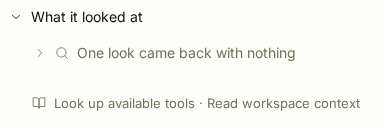
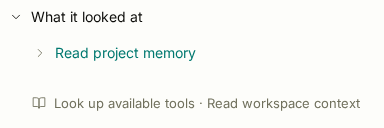
fix(chat): title a fruitless look by what it did, not by how many there were
The row behind the read door said "3 looks came back with nothing". It named a
quantity, and every row beside it names a thing — so the one entry a reader
could not identify was the one they would open to find out what the agent had
tried.

A look that found nothing has no subject to be titled by, so its row is titled
by its request: "Read project memory", the same words the pass already carried.
One row per look, each with its own chevron.

The emptiness moves behind that chevron onto the `bg-brand/10` wash every other
piece of evidence sits on. An empty result is still a result — it is what the
block would have shown had there been anything — so it belongs where a result
goes rather than in a sentence hanging under the list. A tool that said why it
came back empty prints that under it.

No `· nothing` suffix on the statement line: membership of this group is the
fact, and the door already says the reader is looking at what the turn only
looked at. `barrenLabel` goes with the count it existed to phrase.

Changed region(s): [[0.125, 0.375, 0.7812, 0.5]]

diff --git a/src/lib/components/chat/actions/barren-row.svelte b/src/lib/components/chat/actions/barren-row.svelte
@@ -1,0 +1,74 @@
+<script lang="ts">
+	import type { SubjectPass } from '$lib/components/agent';
+	import { Button } from '$lib/components/ui/button';
+	import * as Collapsible from '$lib/components/ui/collapsible';
+	import { FtChevronRight } from '$lib/components/icons';
+	import {
+		CHAT_ROW_DETAIL,
+		CHAT_ROW_ICON,
+		CHAT_ROW_INDENT,
+		CHAT_ROW_STATEMENT,
+		CHAT_TEXT_EVIDENCE,
+		chatActionEmphasis
+	} from './chat-row';
+
+	let { pass }: { pass: SubjectPass } = $props();
+</script>
+
+<!--
+	One look that came back with nothing.
+
+	Named by what it did — "Read project memory" — because that is the only identity it has.
+	Every other row behind the door is titled by its subject, and a look that found nothing has
+	no subject to be titled by; the request is what the reader recognises, and counting the looks
+	instead ("3 looks came back with nothing") named a quantity where every neighbouring row
+	names a thing.
+
+	The absence goes behind the chevron, on the same `bg-brand/10` wash every other piece of
+	evidence sits on. An empty result is still a result: it is what the block would show if there
+	had been anything, so it belongs where that would have been rather than in a sentence hanging
+	under the list.
+
+	No `· nothing` suffix on the statement. Membership of this group is the fact — everything
+	rendered here came back empty — and the door's own label already says the reader is looking
+	at what the turn only looked at.
+
+	Geometry is `subject-row.svelte`'s, including `min-w-0 flex-1 shrink` on the Button rather
+	than on the Trigger: a Trigger hands its class to the snippet through `props` and the
+	Button's own `class=` replaces it, and `buttonVariants` base contributes a `shrink-0` that
+	`CHAT_ROW_STATEMENT` has nothing to cancel.
+-->
+<Collapsible.Root>
+	<Collapsible.Trigger>
+		{#snippet child({ props })}
+			<Button
+				{...props}
+				variant="ghost"
+				size="sm"
+				class="{CHAT_ROW_STATEMENT} min-w-0 flex-1 shrink [&[data-state=open]>svg:first-child]:rotate-90"
+			>
+				<FtChevronRight
+					class="{CHAT_ROW_ICON} shrink-0 text-muted-foreground transition-transform duration-(--duration-micro)"
+				/>
+				<!-- The label is what the agent did, so it takes the teal; the query beside it is
+				     the reader's own words, so it does not. -->
+				<span class="min-w-0 truncate {chatActionEmphasis(pass.mutating)}">
+					{pass.label}{#if pass.query}&nbsp;<span class="italic text-foreground">{pass.query}</span
+						>{/if}
+				</span>
+			</Button>
+		{/snippet}
+	</Collapsible.Trigger>
+	<Collapsible.Content class={CHAT_ROW_DETAIL}>
+		<!-- pt-1 is the bond step: this detail belongs to the row directly above it. -->
+		<div class="{CHAT_ROW_INDENT} pt-1">
+			<div class="rounded-md bg-brand/10 px-2 py-1.5 dark:bg-brand/15">
+				<p class="{CHAT_TEXT_EVIDENCE} text-brand-muted-foreground">Nothing came back.</p>
+				{#if pass.evidence.kind === 'prose'}
+					<!-- Why it came back empty, when the tool troubled to say. -->
+					<p class="{CHAT_TEXT_EVIDENCE} pt-1 text-foreground">{pass.evidence.text}</p>
+				{/if}
+			</div>
+		</div>
+	</Collapsible.Content>
+</Collapsible.Root>

diff --git a/src/lib/components/chat/actions/turn-activity.svelte.spec.ts b/src/lib/components/chat/actions/turn-activity.svelte.spec.ts
@@ -265,24 +265,30 @@ describe('Looks that found nothing are a row like everything else behind the doo
 		return screen;
 	};
 
-	it('counts them on the statement line, which the flat sentence could not do', async () => {
-		const screen = await openDoor([fruitless(), fruitless()]);
-		await expect.element(screen.getByText('2 looks came back with nothing')).toBeVisible();
-	});
-
-	// The pass labels used to sit at the top of the door's column with no statement above them,
-	// so a request rung stood where a subject's name belongs. `toBeVisible` rather than a count
-	// of matches, for the reason this file already records above: the collapsible keeps its
-	// content mounted, so presence in the document says nothing about what is on screen.
-	it('keeps the looks themselves behind their own chevron', async () => {
+	// Named by what it did, because that is the only identity it has. A count named a quantity
+	// where every neighbouring row names a thing.
+	it('titles the row with the request, not with how many looks there were', async () => {
 		const screen = await openDoor([fruitless()]);
-		await expect.element(screen.getByText(/Searched for/)).not.toBeVisible();
-	});
-
-	it('shows them once that chevron is opened', async () => {
-		const screen = await openDoor([fruitless()]);
-		await screen.getByText('One look came back with nothing').click();
 		await expect.element(screen.getByText(/Searched for/)).toBeVisible();
+	});
+
+	it('gives each look its own row', async () => {
+		const screen = await openDoor([fruitless(), fruitless()]);
+		expect(await screen.getByText(/Searched for/).all()).toHaveLength(2);
+	});
+
+	// `toBeVisible` rather than a count of matches, for the reason this file already records
+	// above: the collapsible keeps its content mounted, so presence in the document says nothing
+	// about what is on screen.
+	it('keeps the emptiness behind that row chevron', async () => {
+		const screen = await openDoor([fruitless()]);
+		await expect.element(screen.getByText('Nothing came back.')).not.toBeVisible();
+	});
+
+	it('states it on the evidence surface once the chevron is opened', async () => {
+		const screen = await openDoor([fruitless()]);
+		await screen.getByText(/Searched for/).click();
+		await expect.element(screen.getByText('Nothing came back.')).toBeVisible();
 	});
 });
 

diff --git a/src/lib/components/chat/actions/turn-activity.svelte b/src/lib/components/chat/actions/turn-activity.svelte
@@ -7,14 +7,13 @@
 	import * as Collapsible from '$lib/components/ui/collapsible';
 	import { FtChevronRight, FtLoader, FtReading } from '$lib/components/icons';
 	import {
-		barrenLabel,
 		readDoorLabel,
 		runningSteps,
 		turnContext,
 		type SubjectActivity
 	} from '$lib/components/agent';
 	import SubjectRow from './subject-row.svelte';
-	import BarrenGroup from './barren-group.svelte';
+	import BarrenRow from './barren-row.svelte';
 	import {
 		CHAT_GAP_SUBJECT,
 		CHAT_ROW,
@@ -174,9 +173,9 @@
 							<SubjectRow {subject} title={titleOf(subject)} />
 						{/each}
 
-						{#if context.barren.length > 0}
-							<BarrenGroup passes={context.barren} label={barrenLabel(context)} />
-						{/if}
+						{#each context.barren as pass, index (index)}
+							<BarrenRow {pass} />
+						{/each}
 
 						{#if context.setup.length > 0}
 							<!-- The agent finding its footing. Named, so nothing is hidden; last and

diff --git a/src/lib/components/agent/actions/turn-context.ts b/src/lib/components/agent/actions/turn-context.ts
@@ -566,19 +566,6 @@ function recovered(subject: SubjectActivity, tools: readonly ChatToolActivity[])
 }
 
 /**
- * What the looks that found nothing say from the outside.
- *
- * The count is the part the old flat sentence could not carry. "Nothing came back." sat under a
- * list of pass labels and applied to all of them at once, so it stated a fact about no particular
- * look and the labels above it had to be read to find out how many there were. A row states it
- * once and holds the labels behind itself, like every other row here.
- */
-export function barrenLabel(context: TurnContext): string {
-	const count = context.barren.length;
-	return count === 1 ? 'One look came back with nothing' : `${count} looks came back with nothing`;
-}
-
-/**
  * What the door onto the read subjects says, in the reader's terms.
  *
  * A count of tool calls was the old label and it named mechanism: "called 6 tools" tells you

diff --git a/src/lib/components/agent/index.ts b/src/lib/components/agent/index.ts
@@ -22,7 +22,6 @@ export {
 	type ToolDisclosure
 } from './actions/tool-disclosure';
 export {
-	barrenLabel,
 	isWriteVerb,
 	readDoorLabel,
 	runningSteps,

diff --git a/docs/design/design-system.md b/docs/design/design-system.md
@@ -316,10 +316,13 @@ while the region is empty; the empty state and its one action are the whole surf
      below it; the row is the better of the two places, because it is the one already carrying
      the identity and the way in. A run that failed outright is the turn's own error line, which
      sits under the whole turn with its Retry — never a second copy inside the block.
-     **Everything behind the door is a row too**, including the looks that found nothing: their
-     count goes on a statement line ("3 looks came back with nothing") and the looks themselves
-     go behind its chevron. Written flat, their pass labels stood where a subject's name belongs,
-     and one closing sentence had to speak for every look at once.
+     **Everything behind the door is a row too**, including the looks that found nothing. Such a
+     look has no subject to be titled by, so its row is titled by what it did — "Read project
+     memory" — and the emptiness goes behind its chevron, on the same evidence wash a result
+     would have used. An empty result is still a result, and it belongs where a result goes.
+     Counting them instead ("3 looks came back with nothing") named a quantity where every
+     neighbouring row names a thing; writing them flat put a request rung where a subject's name
+     belongs and left one closing sentence speaking for every look at once.
   3. **Show the subjects; count only what you hide; word only what is absent.** `1 match` above
      one match and `1 edit` above one edit state the same fact twice. `…and 4 more` stays,
      because it counts what is not on screen; `nothing found` stays, because an absence has
